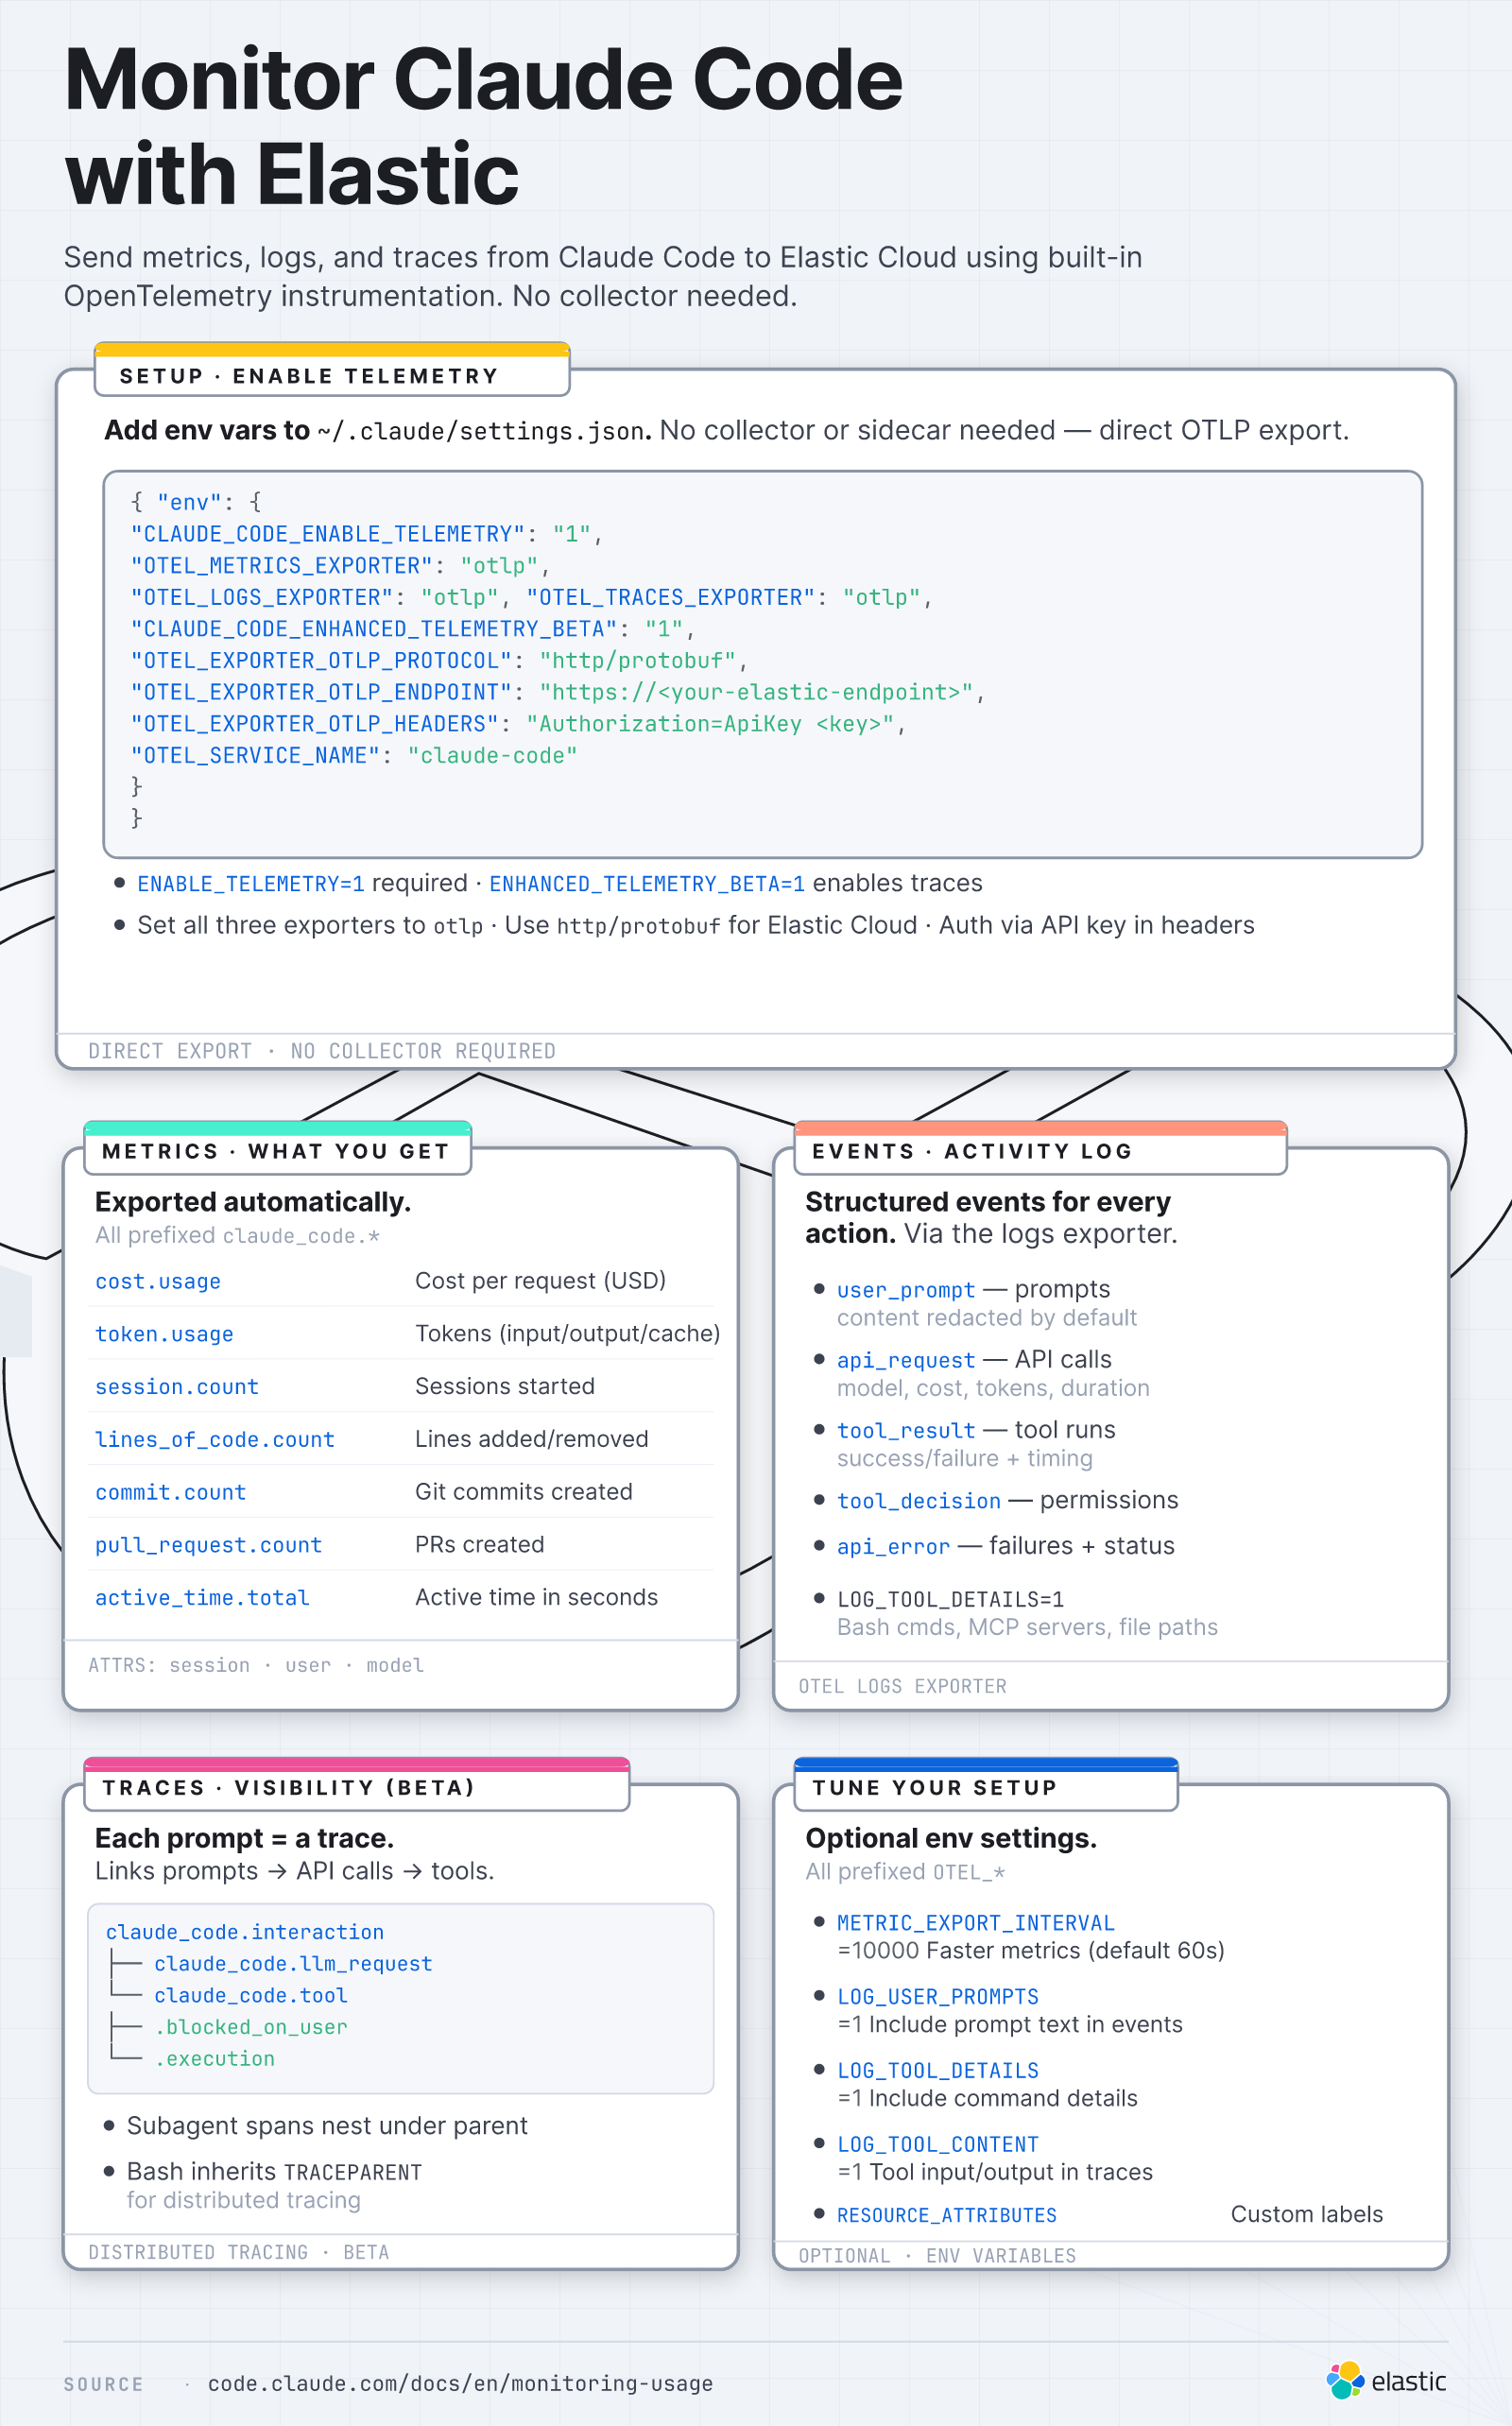
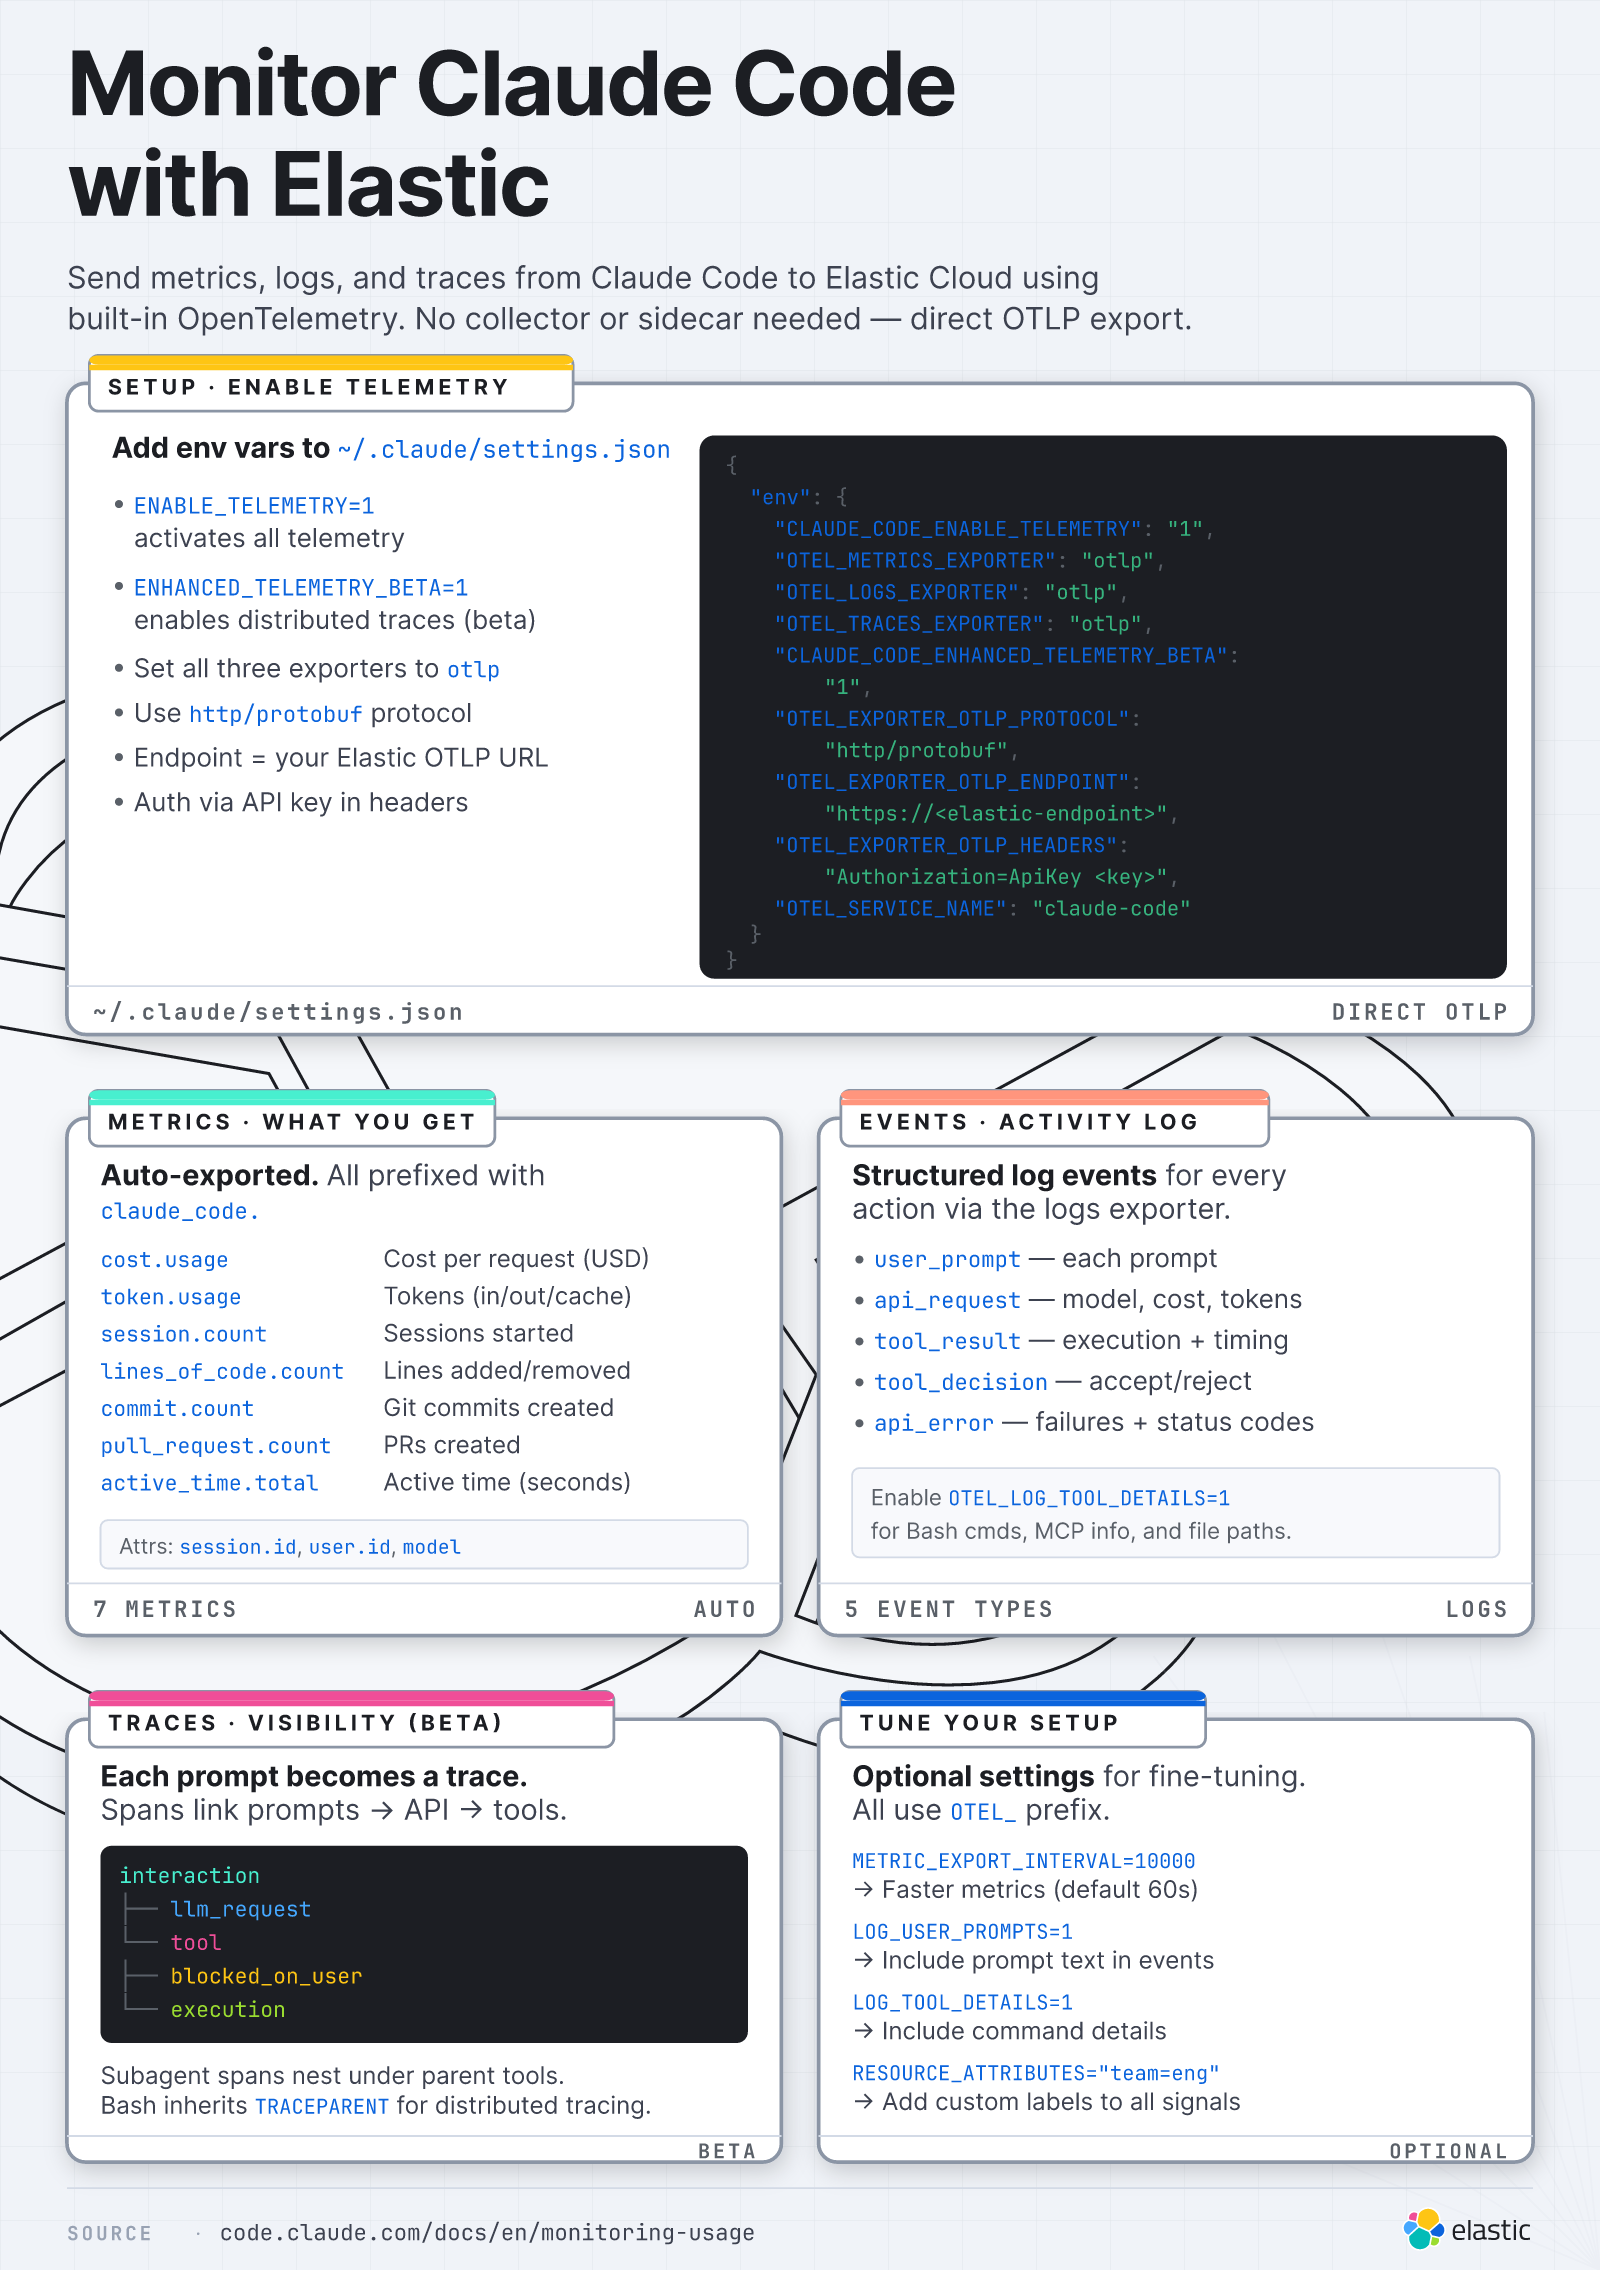
Example output w/ Opus + updated AGENT.md

diff --git a/AGENT.md b/AGENT.md
@@ -258,6 +258,35 @@ Always compare the rendered output side-by-side with the reference image to veri
 **Problem**: Bullets that mix proportional body text with monospace inline code need multiple font switches within a single line.
 **Solution**: Use `<tspan>` elements inside a single `<text>` to switch `font-family` mid-line. Set monospace `<tspan>` to a slightly smaller `font-size` (12–13px vs 15.5px body) for visual balance. Apply `fill="#0B64DD"` to monospace spans to highlight them as code.
 
+### 15. Whitespace in `<tspan>` is collapsed — use explicit x-positions for indentation
+**Problem**: Using space characters inside `<tspan>` elements (e.g. `<tspan>    </tspan>` for indentation) doesn't work — SVG collapses multiple whitespace characters, so all code lines render flush-left regardless of intended indentation.
+**Solution**: Use separate `<text>` elements with explicit `x` coordinates for each indentation level. Calculate x-offsets from the monospace character width:
+- Base (0 indent): `x=354`
+- 2-space indent: `x=354 + 2×6.6 = 367` (at font-size 11)
+- 4-space indent: `x=354 + 4×6.6 = 380`
+- 8-space indent: `x=354 + 8×6.6 = 407`
+
+This is more reliable than `xml:space="preserve"` (which resvg may not fully support) and produces clean, predictable indentation.
+
+### 16. Dark code blocks for JSON/config content
+**Problem**: Light code blocks (white/grey backgrounds) don't visually distinguish code from surrounding card content strongly enough.
+**Solution**: Use `fill="#1C1E23"` (near-black) on the code block `<rect>` with colored text for syntax highlighting. This creates a "dark editor" aesthetic that stands out well against white cards. Use the standard syntax colors on the dark background:
+- Keys: `#0B64DD` (blue)
+- Strings: `#36B37E` (green)
+- Punctuation: `#5A6068` (muted grey)
+
+### 17. Long code lines — wrap with increased indentation
+**Problem**: JSON key-value pairs with long keys (e.g. `"CLAUDE_CODE_ENHANCED_TELEMETRY_BETA"`) and values don't fit on a single line in the code block.
+**Solution**: Break the line after the `:` and render the value on the next line with double indentation (8 spaces). This preserves readability while fitting within the code block width:
+```
+"OTEL_EXPORTER_OTLP_ENDPOINT":     ← key line at 4-space indent
+    "https://<elastic-endpoint>",   ← value line at 8-space indent
+```
+
+### 18. Hybrid layouts — full-width + 2-column rows
+**Problem**: Some infographics have a mix of wide content (like JSON configs) and compact content (bullet lists, metric tables).
+**Solution**: Use a hybrid layout: full-width cards for content that needs horizontal space (code blocks, tables), then 2-column rows for compact content. This keeps the canvas height within the 1000–1300px target while giving each card the width it needs. The full-width card uses the standard 788px width; the 2-column cards use 384px each.
+
 ---
 
 ## File Structure